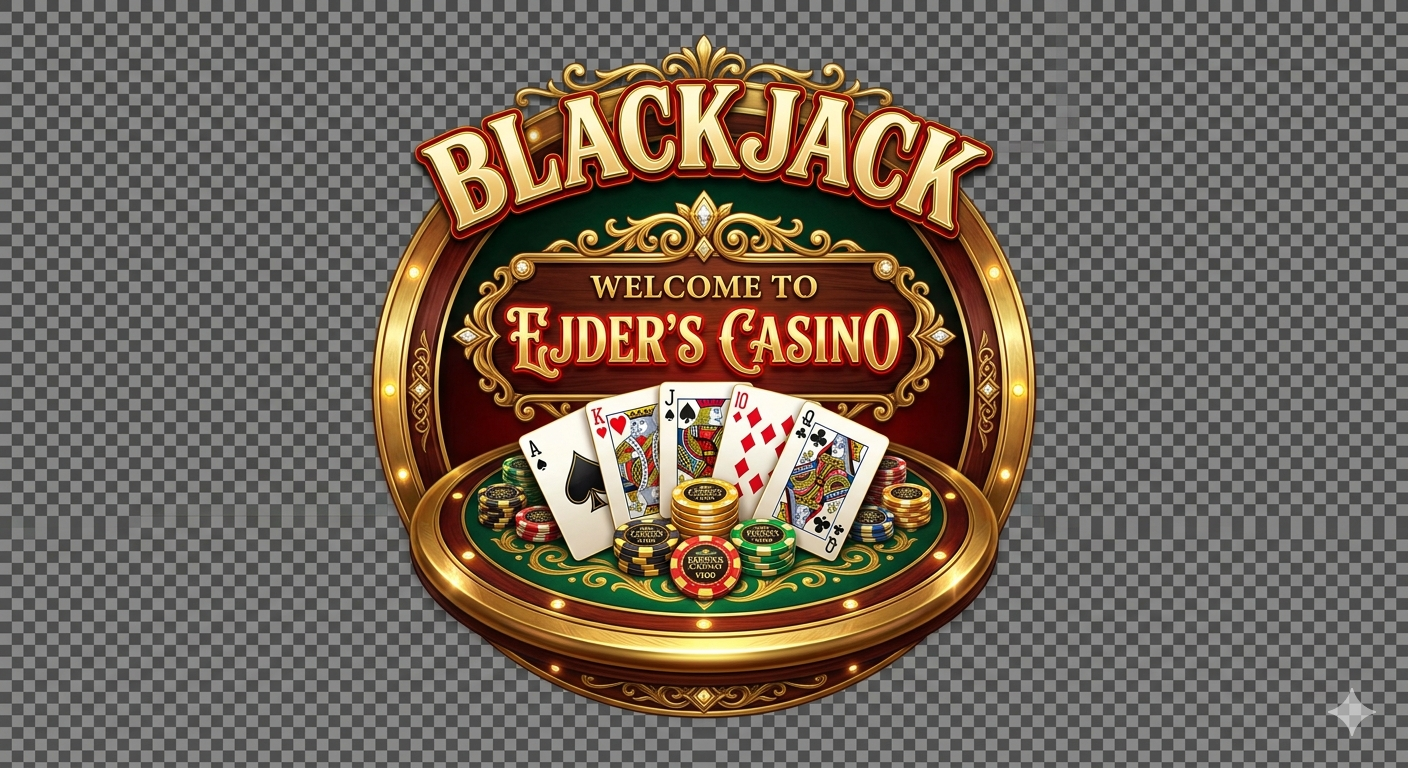
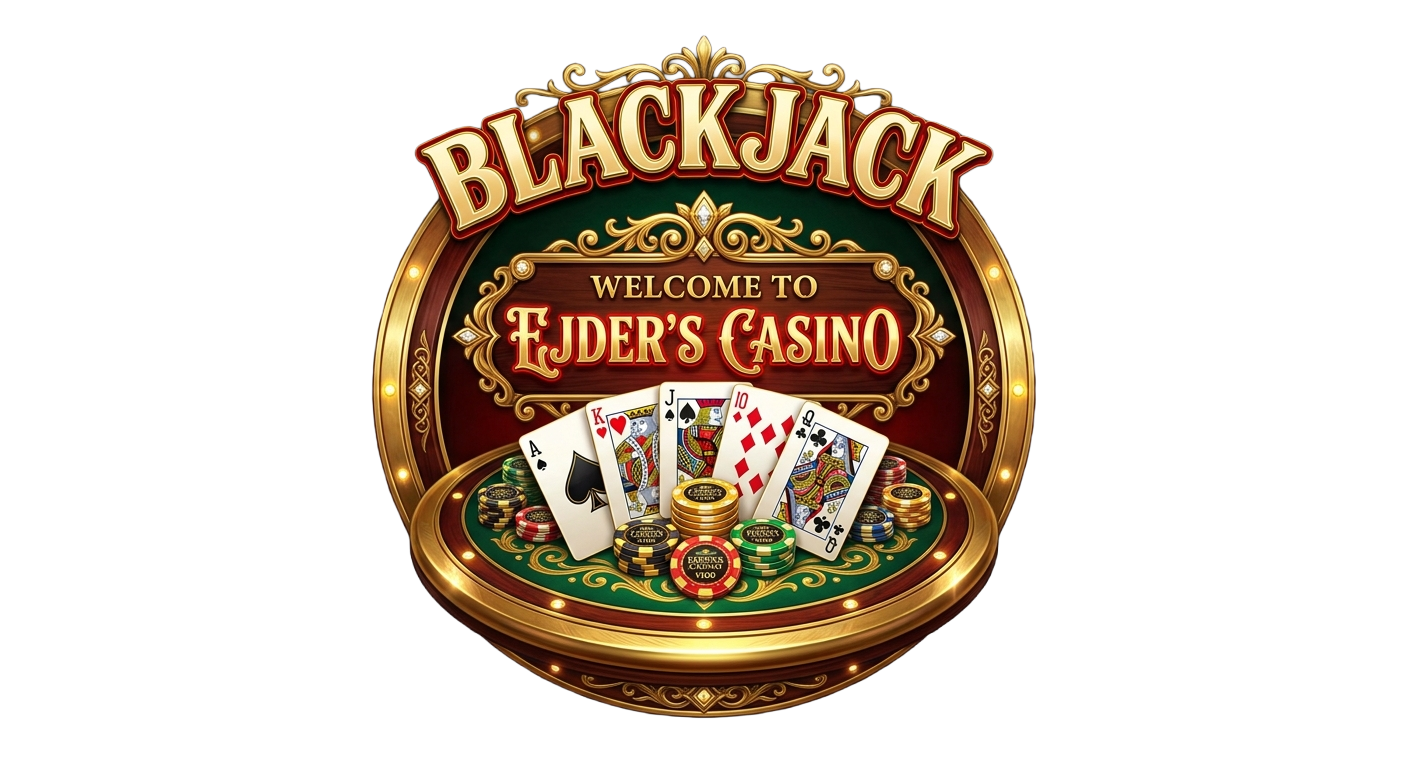
bg image verbeterd, button position

diff --git a/main.py b/main.py
@@ -13,6 +13,7 @@ class ButtonType(Enum):
     START = 2
     HIT = 3
     STAND = 4
+    BACK = 5
 
 TABLE_GREEN = (16, 102, 58)
 
@@ -23,14 +24,19 @@ WOOD_DARK = (101, 51, 15)
 GOLD = (212, 175, 55)
 WHITE = (255, 255, 255)
 
+GAP = 40
+BUTTON_WIDTH = 180
+BUTTON_HEIGHT = 60
+
 class BlackjackGame:
-    def __init__(self, width=800, height=600):
+    def __init__(self, width=1024, height=768):
         pygame.init()
         self.width = width
         self.height = height
         self.screen = pygame.display.set_mode((width, height))
         self.clock = pygame.time.Clock()
         self.state = GameState.MENU
+        self.__initiate_positions()
         self.__initiate_buttons()
         self.__initiate_title()
         self.running = True
@@ -39,29 +45,57 @@ class BlackjackGame:
         self.title_img = pygame.image.load(
             os.path.join("assets", "title.png")
         ).convert_alpha()
-        self.title_rect = self.title_img.get_rect(center=(self.width // 2, 80))
+        self.title_rect = self.title_img.get_rect(center=(self.center_x, self.center_y - 50))
 
+    def __initiate_positions(self):
+        self.center_x = self.width // 2
+        self.center_y = self.height // 2
+        self.pos_y = self.height - BUTTON_HEIGHT - GAP
+
+        self.pos1_x = self.center_x - BUTTON_WIDTH - (GAP // 2)
+        self.pos2_x = self.center_x + (GAP // 2)
+        self.pos4_x = self.center_x - (BUTTON_WIDTH // 2)
+        self.pos3_x = self.pos4_x - BUTTON_WIDTH - GAP
+        self.pos5_x = self.pos4_x + BUTTON_WIDTH + GAP
+    
     def __initiate_buttons(self):
-        self.start_button = Button(ButtonType.START, 300, 150)
-        self.hit_button = Button(ButtonType.HIT, 300, 250)
-        self.stand_button = Button(ButtonType.STAND, 300, 350)
-        self.quit_button = Button(ButtonType.QUIT, 300, 450)
+        self.start_button = Button(ButtonType.START, self.pos1_x, self.pos_y)
+        self.hit_button = Button(ButtonType.HIT, self.pos3_x, self.pos_y)
+        self.stand_button = Button(ButtonType.STAND, self.pos5_x, self.pos_y)
+        self.back_button = Button(ButtonType.BACK, self.pos4_x, self.pos_y)
+        self.quit_button = Button(ButtonType.QUIT, self.pos2_x, self.pos_y)
 
     def __create_scene(self):
         self.screen.fill(TABLE_GREEN)
+        self.screen.blit(self.title_img, self.title_rect)
         if (self.state == GameState.MENU):
-            self.screen.blit(self.title_img, self.title_rect)
             self.quit_button.draw(self.screen)
+            self.start_button.draw(self.screen)
+        if (self.state == GameState.PLAYING):
+            self.hit_button.draw(self.screen)
+            self.back_button.draw(self.screen)
+            self.stand_button.draw(self.screen)
 
     def __handle_action(self, action):
         if action == ButtonType.QUIT:
             self.running = False
+        if action == ButtonType.START:
+            self.state = GameState.PLAYING
+        if action == ButtonType.BACK:
+            self.state = GameState.MENU
 
     def __handle_events(self):
         for event in pygame.event.get():
             if event.type == pygame.QUIT:
                 self.running = False
-            self.__handle_action(self.quit_button.handle_event(event))
+            if self.state == GameState.MENU:
+                self.__handle_action(self.start_button.handle_event(event))
+                self.__handle_action(self.quit_button.handle_event(event))
+                
+            elif self.state == GameState.PLAYING:
+                self.__handle_action(self.hit_button.handle_event(event))
+                self.__handle_action(self.stand_button.handle_event(event))
+                self.__handle_action(self.back_button.handle_event(event))
 
     def run(self):
         while self.running:
@@ -74,9 +108,9 @@ class BlackjackGame:
         sys.exit()
 
 class Button:
-    def __init__(self, type, x, y, width=180, height=60):
+    def __init__(self, type, x, y):
         self.type = type
-        self.rect = pygame.Rect(x, y, width, height)
+        self.rect = pygame.Rect(x, y, BUTTON_WIDTH, BUTTON_HEIGHT)
         self.font = pygame.font.Font("assets/casino_font.otf", 32)
         self.color = WOOD_DARK
         self.hover_color = WOOD_LIGHT
